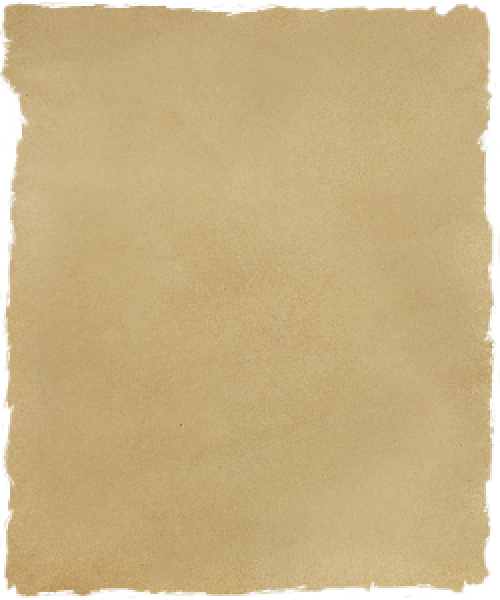
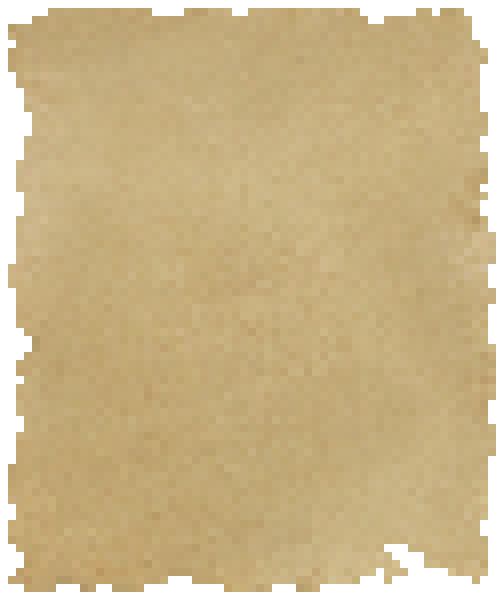
re-worked the parchment asset to better fit the art style

diff --git a/3505_Final_Project/mainwindow.cpp b/3505_Final_Project/mainwindow.cpp
@@ -124,8 +124,8 @@ void MainWindow::showParchment(QString textToDisplay, bool takeAnswer, QImage * 
 
     // move all the widgets to the center of the screen formatted correctly
     ui->ParchmentLabel->move(centerX - ui->ParchmentLabel->size().width()/2, centerY - ui->ParchmentLabel->size().height()/2);
-    ui->ParchmentTextLabel->move(centerX - ui->ParchmentTextLabel->size().width()/2, centerY*.7);
-    ui->SubmitAnswerButton->move(centerX - ui->SubmitAnswerButton->size().width()/2, centerY * 1.6);
+    ui->ParchmentTextLabel->move(centerX - ui->ParchmentTextLabel->size().width()/2, centerY*.6);
+    ui->SubmitAnswerButton->move(centerX - ui->SubmitAnswerButton->size().width()/2, centerY * 1.4);
 
     // show all widgets
     ui->ParchmentLabel->show();
